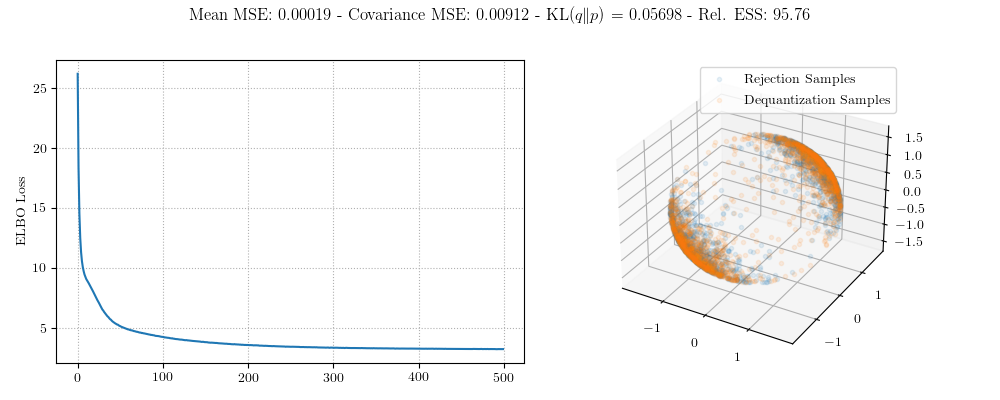
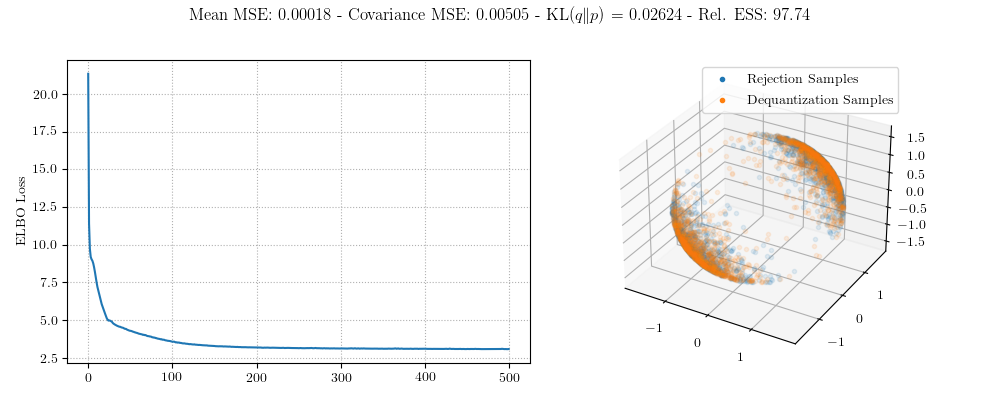
son method

diff --git a/examples/density-estimation/ambient-orthogonal/orthogonal.py b/examples/density-estimation/ambient-orthogonal/orthogonal.py
@@ -197,8 +197,36 @@ ax = fig.add_subplot(122, projection='3d')
 ax.plot(xobsvec[:num_obs, 0], xobsvec[:num_obs, 1], xobsvec[:num_obs, 2], '.', alpha=0.1, label='Rejection Samples')
 ax.plot(xonvec[:num_obs, 0], xonvec[:num_obs, 1], xonvec[:num_obs, 2], '.', alpha=0.1, label='Dequantization Samples')
 ax.grid(linestyle=':')
-ax.legend()
+leg = ax.legend()
+for lh in leg.legendHandles:
+    lh._legmarker.set_alpha(1)
+
 plt.tight_layout()
 plt.suptitle('Mean MSE: {:.5f} - Covariance MSE: {:.5f} - KL$(q\Vert p)$ = {:.5f} - Rel. ESS: {:.2f}%'.format(mean_mse, cov_mse, kl, ress))
 plt.subplots_adjust(top=0.85)
 plt.savefig(os.path.join('images', 'orthogonal-{}.png'.format(args.density)))
+
+
+
+rng, rng_sample, rng_lp = random.split(rng, 3)
+num_is = 100
+_, xon = ambient.sample(rng_sample, 10000, bij_params, bij_fns, args.num_dims)
+xso = xon * jnp.linalg.det(xon)[..., jnp.newaxis, jnp.newaxis]
+approx = 0.
+
+for s in [-1, +1]:
+    xdeq, deq_log_dens = dequantization.dequantize(random.fold_in(rng_lp, s), deq_params, deq_fn, s*xso, num_is)
+    amb_log_dens = vmap(ambient.log_prob, in_axes=(None, None, 0))(bij_params, bij_fns, xdeq)
+    log_approx = jspsp.logsumexp(amb_log_dens - deq_log_dens, axis=0) - jnp.log(num_is)
+    log_approx = jnp.clip(log_approx, -10., 10.)
+    approx += jnp.exp(log_approx)
+
+log_approx = jnp.log(approx)
+log_target = log_dens(xso) + jnp.log(2.)
+target = jnp.exp(log_target)
+w = target / approx
+Z = jnp.nanmean(w)
+kl = jnp.nanmean(log_approx - log_target) + jnp.log(Z)
+ess = jnp.square(jnp.nansum(w)) / jnp.nansum(jnp.square(w))
+ress = 100 * ess / len(w)
+print('estimate KL(q||p): {:.5f} - relative effective sample size: {:.2f}%'.format(kl, ress))

diff --git a/examples/density-estimation/ambient-orthogonal/distributions.py b/examples/density-estimation/ambient-orthogonal/distributions.py
@@ -14,10 +14,17 @@ def log_multimodal(x):
     matrix and the pure reflection.
 
     """
+    # num_dims = x.shape[-1]
+    # Id = jnp.eye(num_dims)
+    # scale = 0.5
+    # lp = 0.
+    # lp += jnp.exp(-0.5 * jnp.square(x - Id).sum((-1, -2)) / jnp.square(scale))
+    # lp += jnp.exp(-0.5 * jnp.square(x + Id).sum((-1, -2)) / jnp.square(scale))
+    # return jnp.log(lp)
     num_dims = x.shape[-1]
-    Id = jnp.eye(num_dims)
     scale = 0.5
-    lp = 0.
-    lp += jnp.exp(-0.5 * jnp.square(x - Id).sum((-1, -2)) / jnp.square(scale))
-    lp += jnp.exp(-0.5 * jnp.square(x + Id).sum((-1, -2)) / jnp.square(scale))
-    return jnp.log(lp)
+    Id = jnp.eye(num_dims)
+    det = jnp.linalg.det(x)
+    x *= det[..., jnp.newaxis, jnp.newaxis]
+    lp = -0.5 * jnp.square(x - Id).sum((-1, -2)) / jnp.square(scale)
+    return lp
